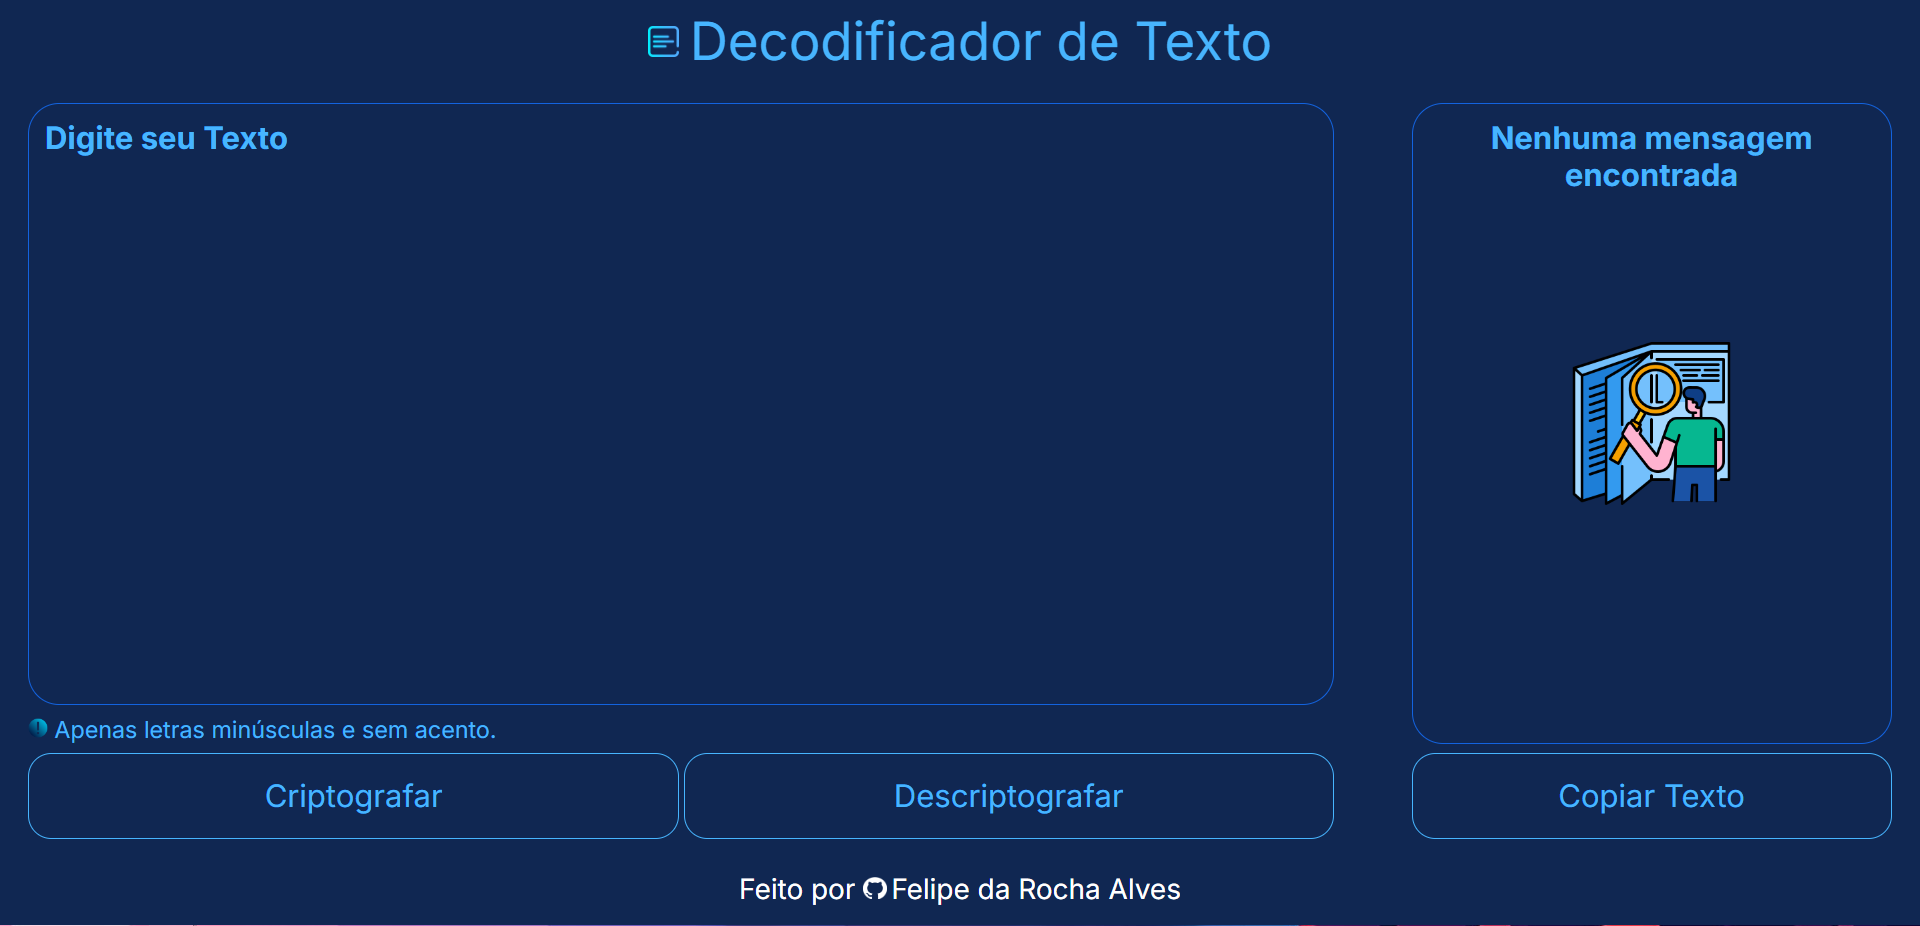
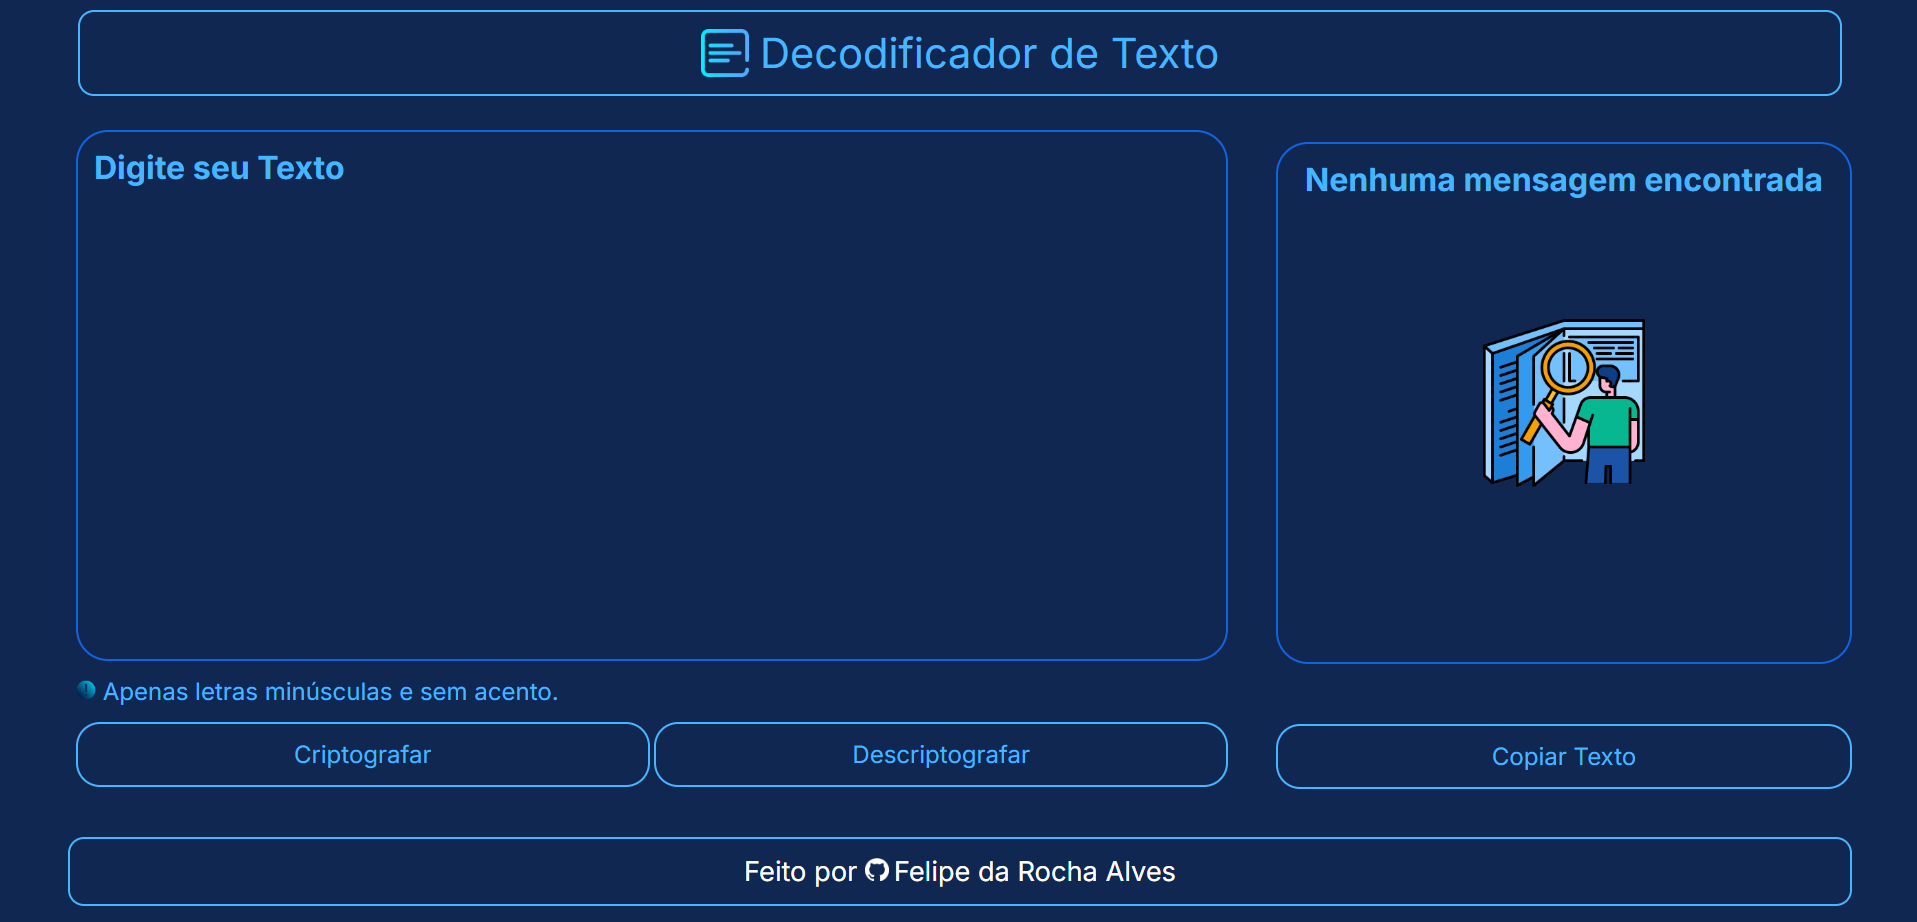
Imagem do README.md renovada e aajustes finais ao CSS

diff --git a/styles/style.css b/styles/style.css
@@ -20,9 +20,7 @@ body {
 }
 
 .logo {
-    margin-top: 0.6rem;
-    margin-left: auto;
-    margin-right: auto;
+    margin: 0.6rem auto 1rem;
     display: flex;
     gap: 0.7rem;
     align-items: center;
@@ -32,8 +30,6 @@ body {
     border-radius: 1rem;
     padding: 1rem;
     width: 90%;
-    font-size: 1.3rem;
-    margin-bottom: 1rem;
 }
 
 .logo img {
@@ -45,7 +41,7 @@ body {
     margin: 0;
 }
 
-.container{
+.container {
     display: flex;
     justify-content: center;
     align-items: center;
@@ -54,7 +50,7 @@ body {
     margin-left: 0;
 }
 
-.campo_texto{
+.campo_texto {
     resize: none;
     border: 0.125rem solid var(--cor-terciaria);
     border-radius: 2rem;
@@ -66,51 +62,53 @@ body {
     caret-color: var(--cor-secundaria);
 }
 
-.area_de_texto{
+.area_de_texto {
     height: 71vh;
     width: 60%;
-    margin-top: 1rem;
-    margin-left: 0.5rem;
+    margin: 1rem 0 0 0.5rem;
     display: flex;
     flex-direction: column;
     gap: 1rem;
-    order: 1 50%;   
+    order: 1;
 }
 
-.alerta{
+.alerta {
     color: var(--cor-secundaria);
     font-size: 1.5rem;
 }
 
-.area_de_texto img{
+.area_de_texto img {
     max-width: 1.25rem;
 }
 
-.area_de_texto textarea::placeholder{
+.area_de_texto textarea::placeholder {
     font-weight: bold;
     color: var(--cor-secundaria);
     font-size: 2rem;
 }
 
-#textarea1:focus::placeholder{
+#textarea1:focus::placeholder {
     color: transparent;
 }
 
-.botoes{
+.botoes {
     display: flex;
     font-size: 1rem;
     gap: 0.3rem;
 }
 
-.btn_criptografar, .btn_descriptografar{
+.btn_criptografar,
+.btn_descriptografar {
     width: 50%;
 }
 
-.btn_copiar{
+.btn_copiar {
     width: 100%;
 }
 
-.btn_criptografar, .btn_descriptografar, .btn_copiar{
+.btn_criptografar,
+.btn_descriptografar,
+.btn_copiar {
     border: 0.125rem solid;
     border-radius: 1.5rem;
     padding: 1rem;
@@ -120,16 +118,18 @@ body {
     background-color: var(--cor-primaria);
 }
 
-.btn_criptografar:hover, .btn_copiar:hover, .btn_descriptografar:hover{
+.btn_criptografar:hover,
+.btn_copiar:hover,
+.btn_descriptografar:hover {
     color: var(--cor-terciaria);
     background-color: var(--cor-secundaria);
 }
 
-.btn_copiar{
+.btn_copiar {
     align-self: center;
 }
 
-.resultado{
+.resultado {
     height: 70vh;
     width: 30%;
     margin-top: 1.9rem;
@@ -147,7 +147,7 @@ body {
     padding-bottom: 4rem;
 }
 
-.resultado #textarea2::placeholder{
+.resultado #textarea2::placeholder {
     font-weight: bold;
     color: var(--cor-secundaria);
     font-size: 2rem;
@@ -157,22 +157,20 @@ body {
 .rodape {
     text-align: center;
     order: 3;
-    flex-basis: auto;
-    font-size: 1.8rem;
+    font-size: 1.7rem;
     margin-bottom: 1rem;
     width: 91%;
-    font-size: 1.7rem;
     border: 2px solid var(--cor-secundaria);
     border-radius: 1rem;
     padding: 1rem;
 }
 
-.rodape a{
+.rodape a {
     text-decoration: none;
     color: white;
 }
 
-.rodape img{
+.rodape img {
     max-width: 1.5rem;
     margin-right: 0.3rem;
 }
